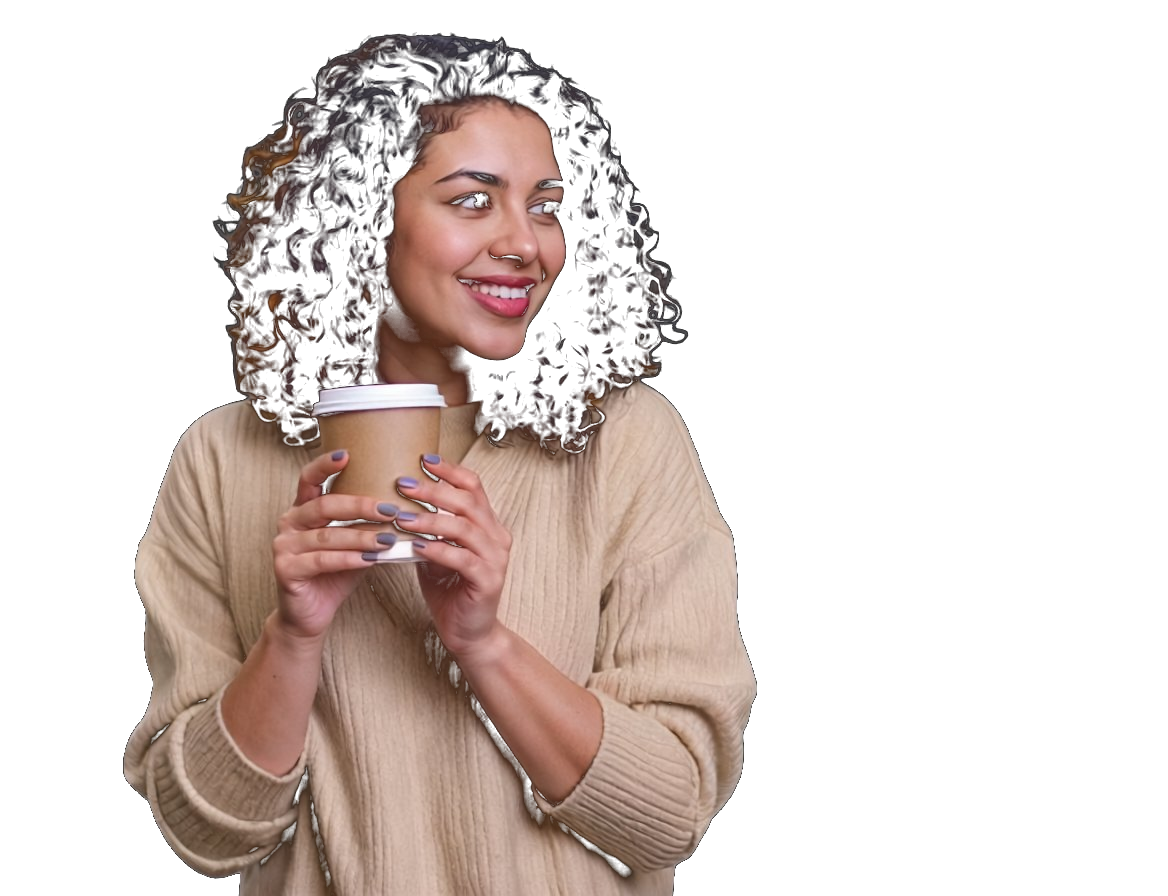
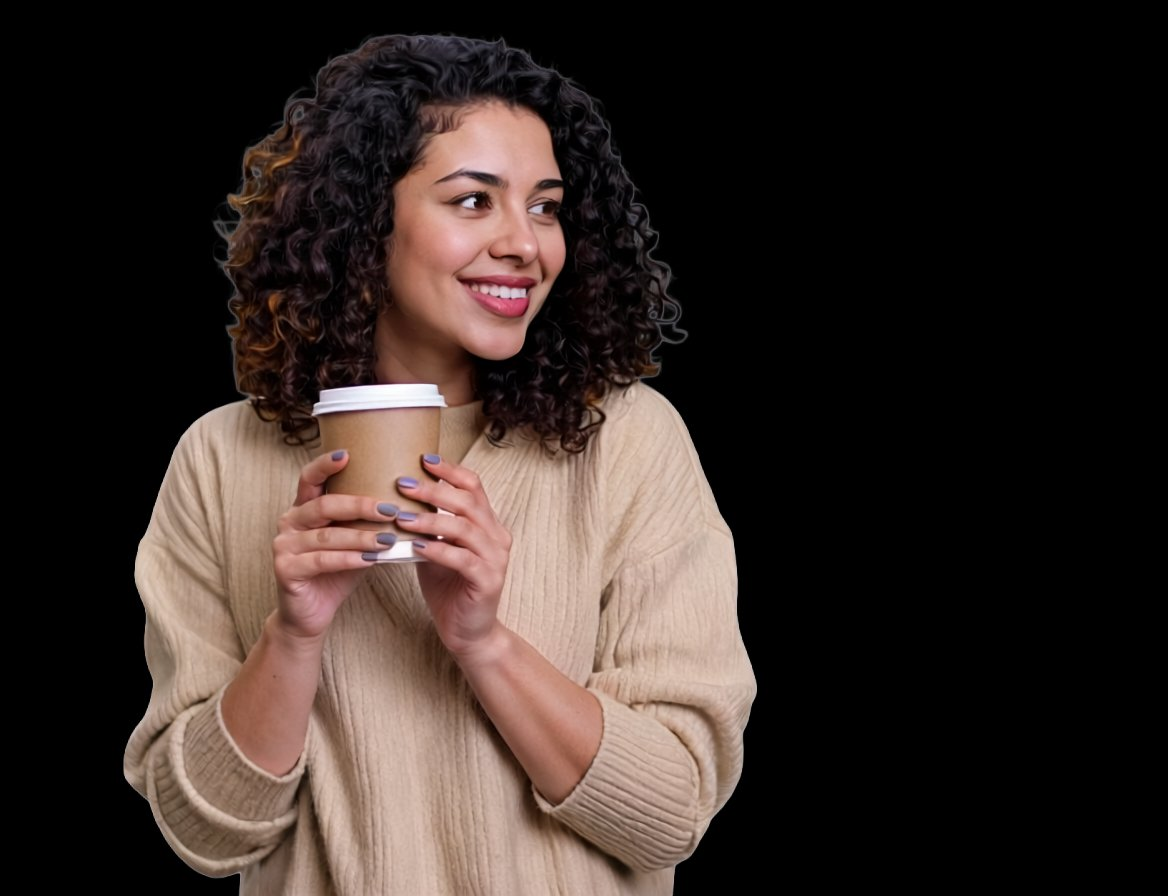
model background removed

diff --git a/src/pages/Index.tsx b/src/pages/Index.tsx
@@ -176,11 +176,11 @@ const Index = () => {
               {/* Layer 1 — green rectangle (first in DOM = bottom of stack) */}
               <div style={{ position: "absolute", top: "8%", left: "5%", right: "5%", bottom: "5%", background: "#2e3a2b", borderRadius: "24px" }} aria-hidden="true" />
 
-              {/* Layer 2 — person photo (second in DOM = above rectangle) */}
+              {/* Layer 2 — person photo with screen blend to remove black bg */}
               <img
                 src="/hero.png"
                 alt="Empaque biodegradable Renovapack — vasos compostables HORECA"
-                style={{ position: "relative", width: "160%", maxWidth: "864px", objectFit: "contain" }}
+                style={{ position: "relative", width: "160%", maxWidth: "864px", objectFit: "contain", mixBlendMode: "screen" }}
               />
 
               {/* Layer 3 — badge (last in DOM = top of stack) */}
